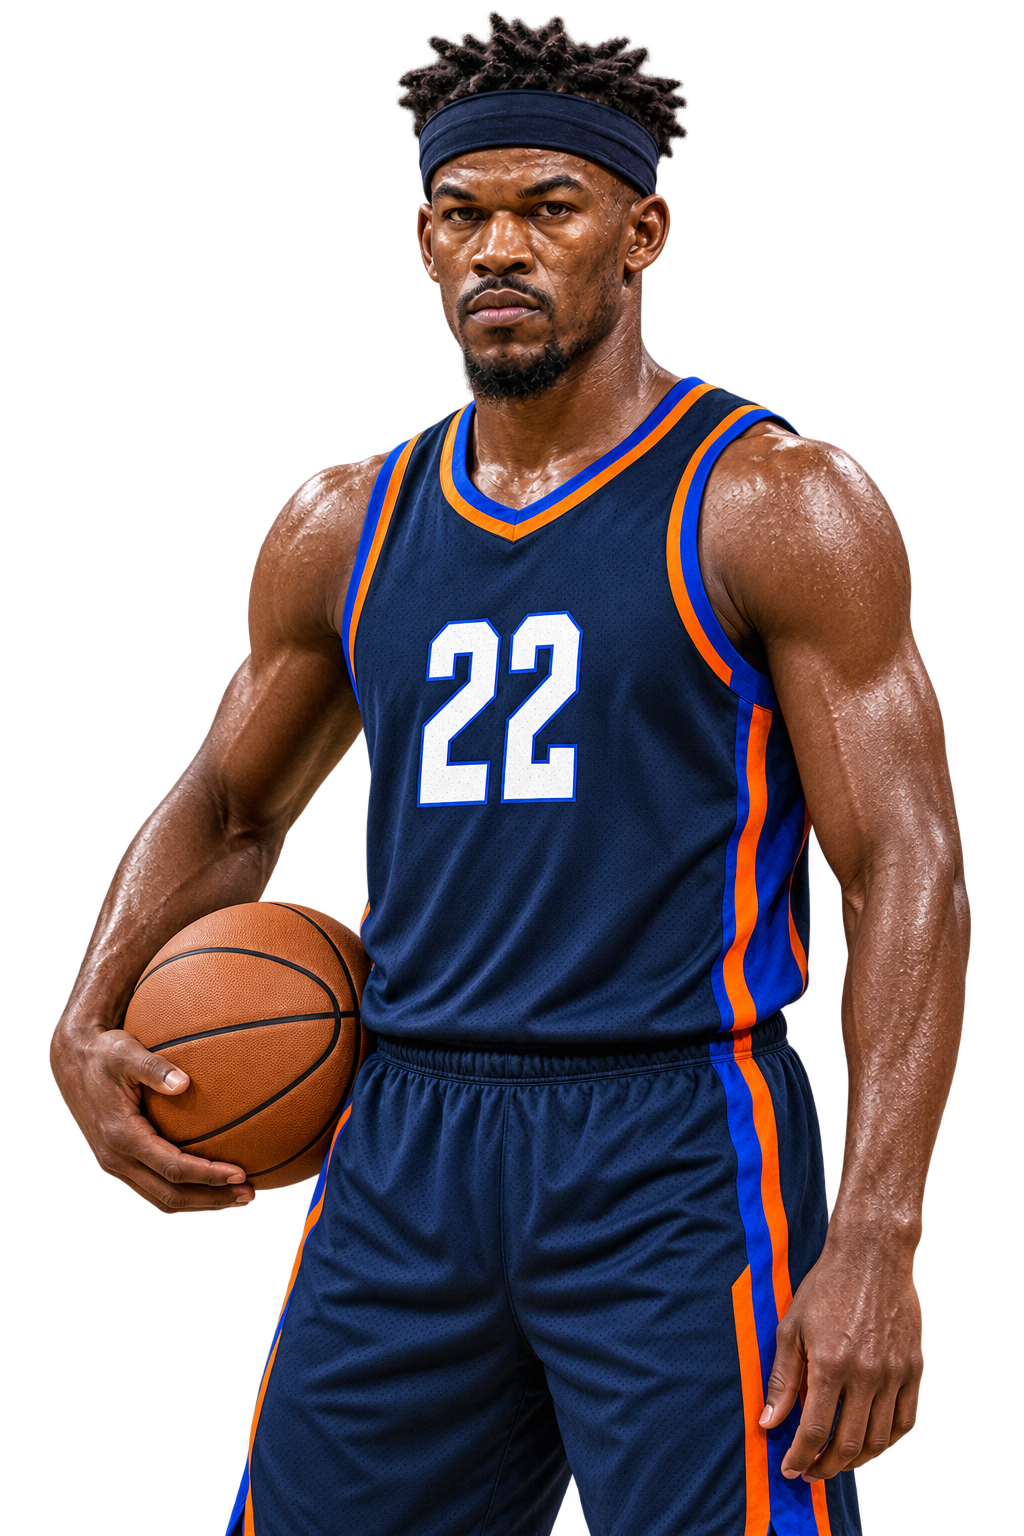
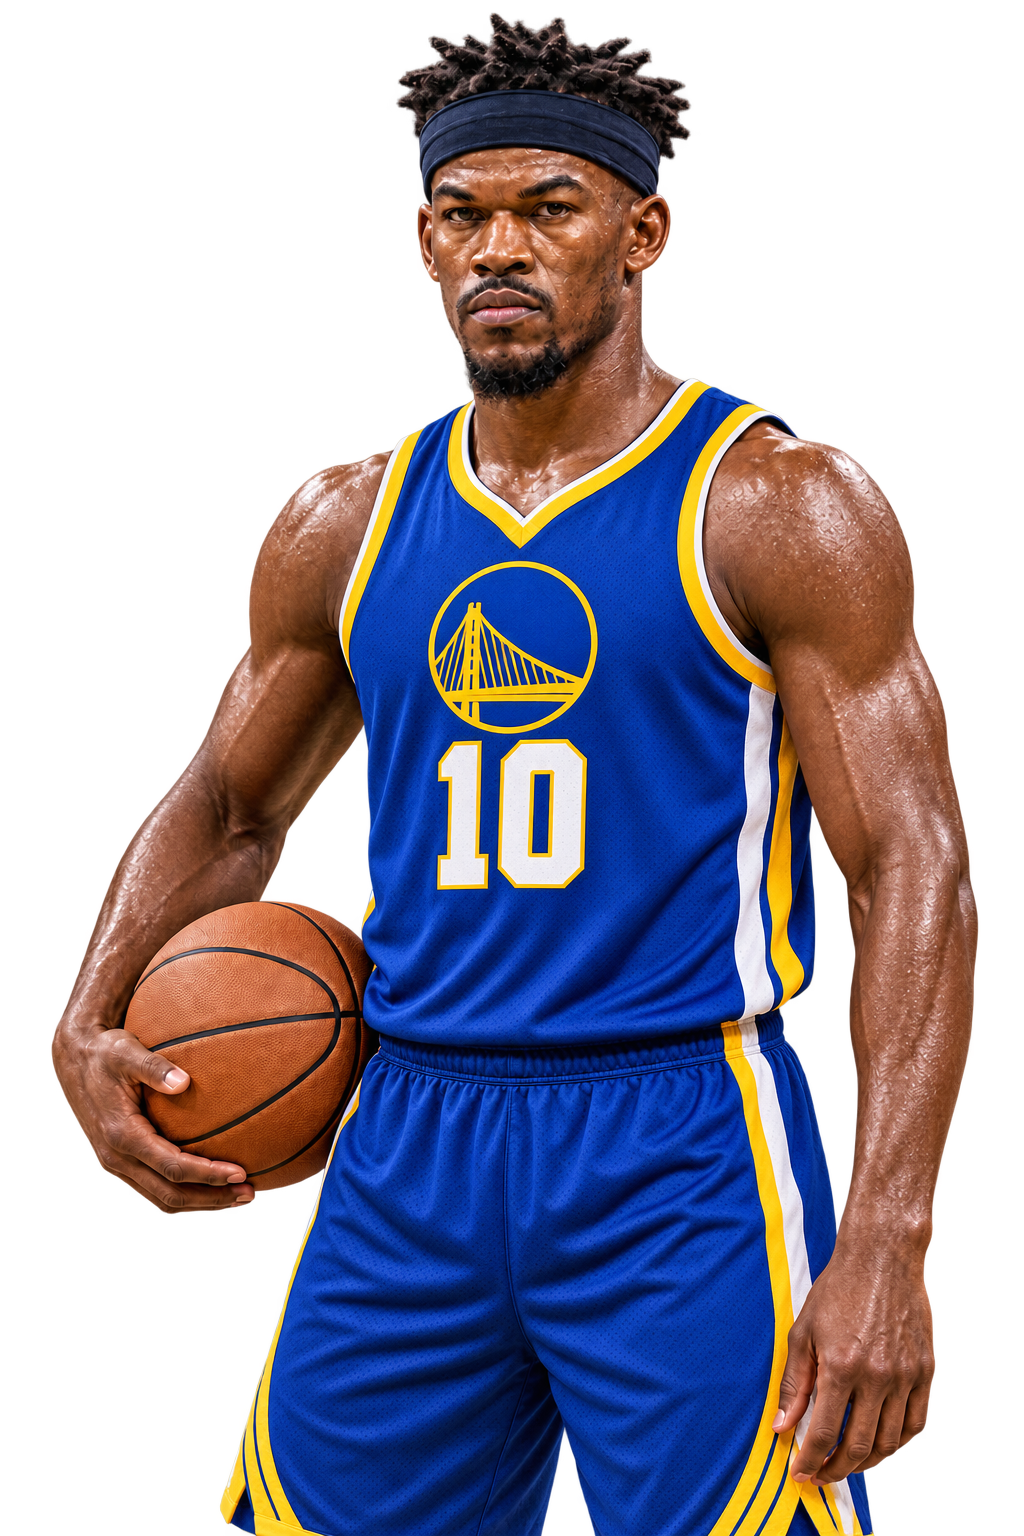
fix: update Butler portraits to Warriors 10 (v2.13.4)

diff --git a/app/src/components/ClutchCourtViews.tsx b/app/src/components/ClutchCourtViews.tsx
@@ -68,7 +68,7 @@ function ButlerCard(props: { variant: ButlerCardVariant }) {
     aria-label={label()}
   >
     <img src={image()} alt="Jimmy Butler 风格人物视觉" />
-    <Show when={today()} fallback={<div><span>JIMMY BUTLER　·　#22</span><strong>CLUTCH MODE</strong><small>关键时刻，专注打好眼前这一球。</small></div>}>
+    <Show when={today()} fallback={<div><span>JIMMY BUTLER　·　#10</span><strong>CLUTCH MODE</strong><small>关键时刻，专注打好眼前这一球。</small></div>}>
       <div><span>JIMMY<br />BUTLER</span><strong>CLUTCH MODE</strong><b>22</b><small>关键时刻，专注打好这一回合。</small></div>
     </Show>
   </aside>;

diff --git a/app/src/MainShell.tsx b/app/src/MainShell.tsx
@@ -676,7 +676,7 @@ function MainShell() {
         <div class="app-bar__actions">
           <Show when={themeId() === "metro-pulse" || themeId() === "clutch-court"}>
             <div class="new-theme-bar-meta">
-              <strong>{themeId() === "metro-pulse" ? "专注创造更好的日常" : "JIMMY BUTLER　·　#22"}</strong>
+              <strong>{themeId() === "metro-pulse" ? "专注创造更好的日常" : "JIMMY BUTLER　·　WARRIORS"}</strong>
               <span>{themeId() === "metro-pulse" ? "下一班：" + (nextTodo()?.scheduledTime || "待安排") + "　/　站台 03" : "CLUTCH MODE　/　HOME COURT"}</span>
             </div>
           </Show>

diff --git a/app/src-tauri/src/runtime.rs b/app/src-tauri/src/runtime.rs
@@ -60,9 +60,9 @@ use storage::{
 };
 use tauri::{Manager, WindowEvent};
 
-const APP_VERSION: &str = "2.13.3";
+const APP_VERSION: &str = "2.13.4";
 const APP_MILESTONE: &str =
-    "v2.13.3 New Jimmy Butler poses with original court backgrounds preserved";
+    "v2.13.4 Jimmy Butler Warriors number 10 portraits with original court backgrounds preserved";
 const APP_BACKUP_KIND: &str = "focused-moment-backup";
 const APP_BACKUP_FORMAT_VERSION: u64 = 3;
 const FLOATING_WORKSPACE_SYNC_EVENT: &str = "floating-workspace-sync";

diff --git a/docs/maintenance/workspace-migration.md b/docs/maintenance/workspace-migration.md
@@ -162,3 +162,14 @@
[1 lines of base64/hex data omitted]
 - `pnpm native:windows` 通过，run `windows-native-20260924-110208-18c79bb7d3`，报告 `artifacts/qa/native/windows-native-20260924-110208-18c79bb7d3/report.md`。根入口与隔离 QA 副本哈希一致；可见原生窗口启动、隔离 LOCALAPPDATA / WebView2 路径、合成旧数据迁移、旧源保持字节稳定及仅清理测试自身进程均通过。该自动冒烟不等于计时、托盘、浮窗、备份 UI、音效和通知的人工原生交互验收。
[1 lines of base64/hex data omitted]
+
+## 2026-09-26 v2.13.4 Jimmy Butler 勇士 10 号肖像与本地交付
+
[1 lines of base64/hex data omitted]
+- 发现计时/待办肖像旁原有 `#22` 标注与新球衣冲突，已改为两页卡片 `#10`、共用顶栏的中性球队名；首页海报与其 `22` 标记不改。浏览器自动断言确认资源尺寸及透明采样点。
+- 版本源统一为 `2.13.4`：`app/package.json`、Tauri `Cargo.toml` / `Cargo.lock` / `tauri.conf.json`、`runtime.rs`。
+- 完整浏览器回归 `156/156` 通过，run `artifacts/qa/frontend/butler-warriors-10-20260926-inv-muhxc3kq-6912-33a0c40f-0189-4295-a59f-eb5967aa37ab/`；配套标签与透明断言更新后，CC-02/CC-03 最终截图定向回归 `2/2` 通过，run `artifacts/qa/frontend/butler-warriors-10-final-inv-muhxs7j6-16340-ef38b4f8-8a8a-41b7-9f96-90f4856854cc/`。两张页面截图已目视核对，构图、控件和背景无裁切/遮挡。
+- `pnpm verify` 通过，Rust 单测 39/39；`pnpm build` 通过（2089 modules）。仅有既有 unused/dead-code 编译警告。
[1 lines of base64/hex data omitted]
+- `pnpm native:windows` 通过：`windows-native-20260926-132018-03ec821d5c`，验证可见原生窗口、隔离用户数据/WebView2 目录、模拟旧状态迁移和受控清理。此冒烟不覆盖人工计时/托盘/浮窗/音效等交互。
[1 lines of base64/hex data omitted]

diff --git a/docs/v2.13.4/RELEASE_NOTES.md b/docs/v2.13.4/RELEASE_NOTES.md
@@ -1,0 +1,16 @@
+# Focused Moment 2.13.4
+
+## 巴特勒勇士 10 号肖像
+
+- 计时页更换为 Jimmy Butler 正面持球的勇士蓝金 10 号透明肖像；待办页更换为不同表情与角度的近景侧场肖像，球衣号码完整可见。
+- 保持两页原有布局、文字与球场背景不变；首页沿用原有独立海报。
+- 两张 PNG 均保留透明通道，按产品素材用途生成并人工核对姿势与号码。
+
+## 验证与本地交付
+
+- 完整浏览器回归：`pnpm test:frontend -- --workers=1` 为 `156/156` 通过。图像标签与透明边缘断言更新后，CC-02 计时页与 CC-03 待办页概念截图定向回归 `2/2` 通过；透明 PNG 的角点及侧边采样 alpha 均为 `0`，构图截图已人工复核。
+- `pnpm verify` 通过，含 TypeScript、CSS/结构/原生契约/本地交付检查及 Rust 单元测试 `39/39`；仅有既有未使用导入/死代码警告。`pnpm build` 通过（2089 modules）。
[2 lines of base64/hex data omitted]
+- Windows 原生隔离冒烟 `windows-native-20260926-132018-03ec821d5c` 通过；源入口与隔离副本 SHA-256 一致，验证可见窗口启动、隔离数据目录与旧状态迁移。此项不代表计时按钮、托盘、浮窗、备份界面、音效和通知的人工原生 UI 操作已全部覆盖。
+- 本次为本机可运行交付；不创建安装包、tag 或 GitHub Release，不上传发布资产。
